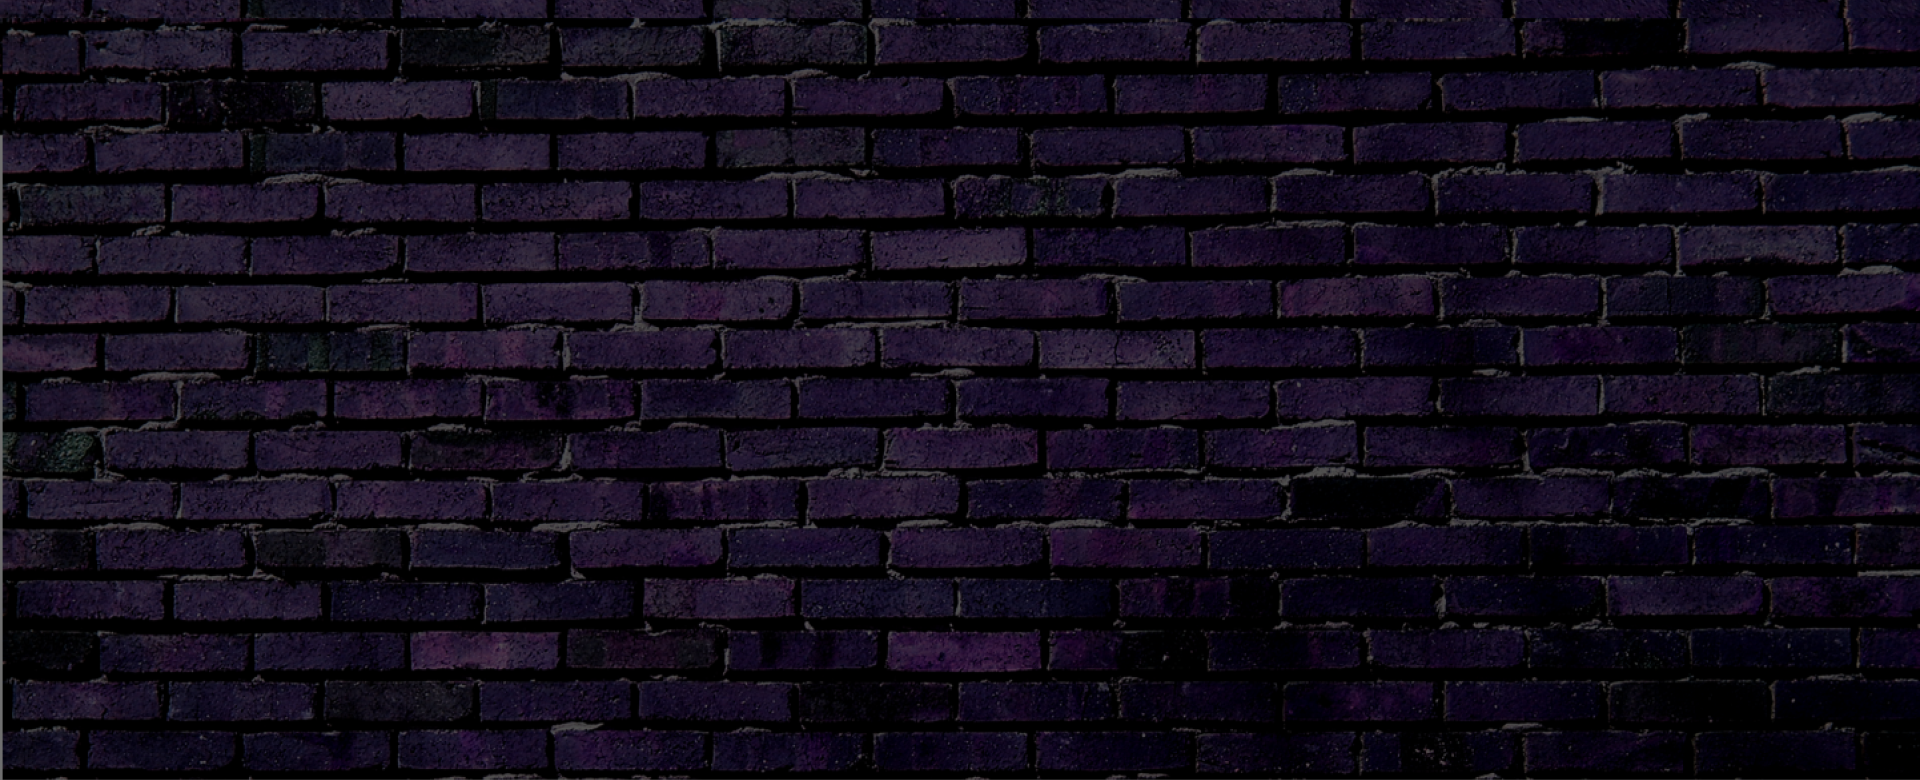
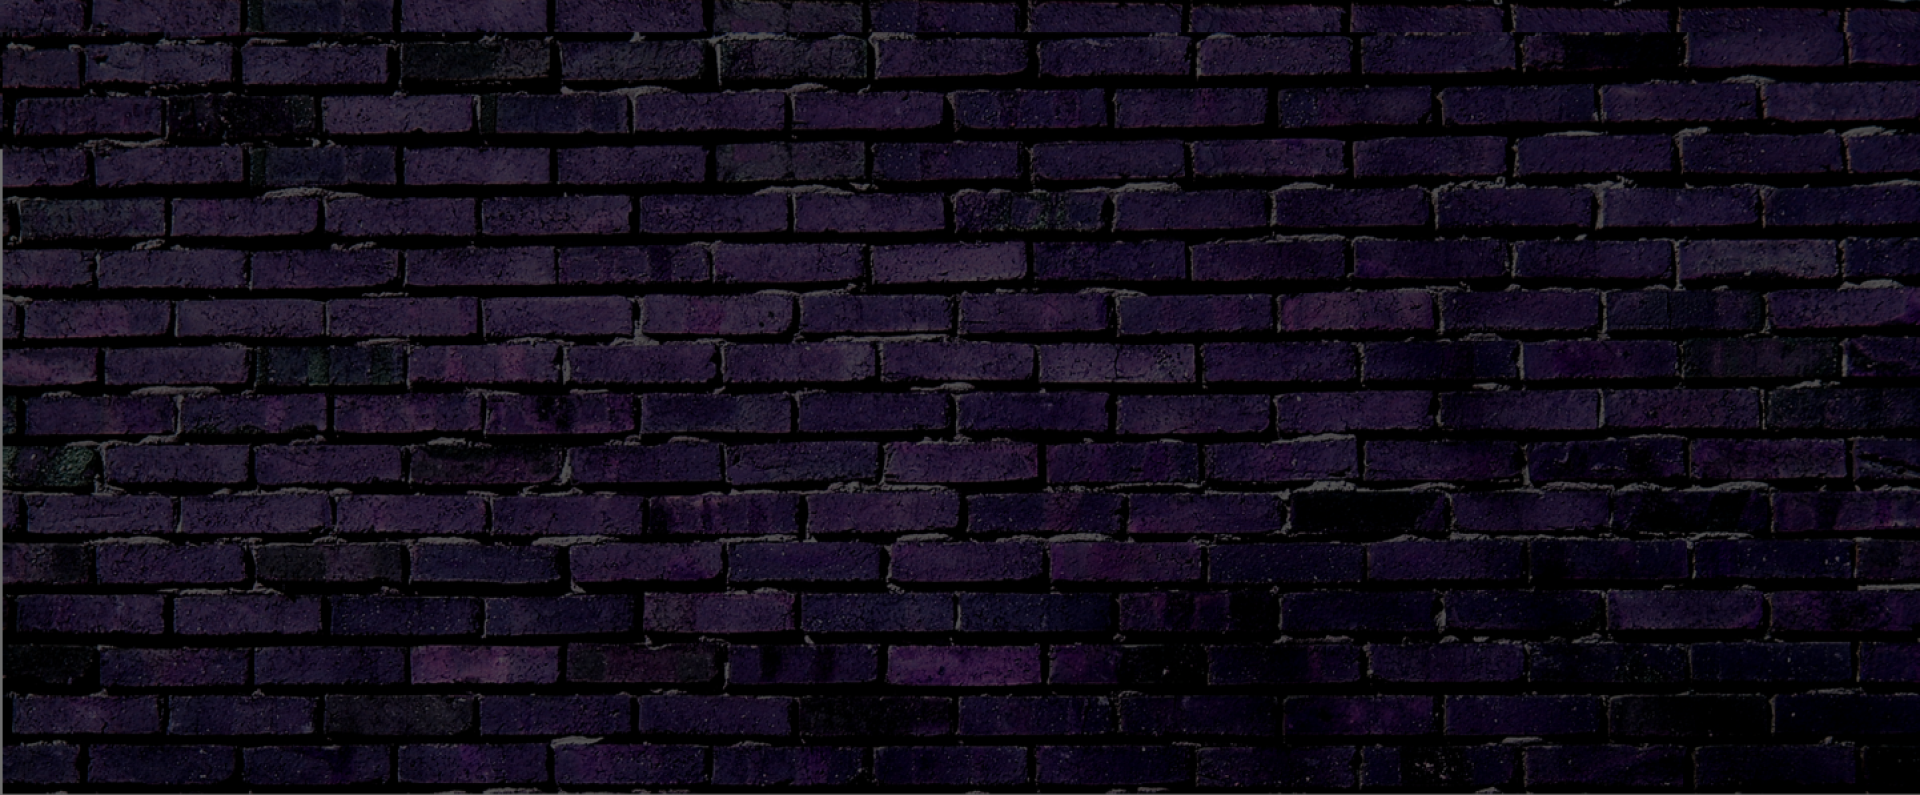
to mobile

diff --git a/getting-started.html b/getting-started.html
@@ -29,10 +29,10 @@
         </div>
 
         <div style="background-image: url('./assets/images/short\ Brick_darker2.png');" class="bg-top">
-            <div class="container-xxl col px-4 py-5">
-                <div class="row flex-lg-row-reverse g-5 pt-5">
+            <div class="container-xxl col px-xl-4 pt-xl-5 pb-5">
+                <div class="row m-0 flex-md-row-reverse g-xl-5 pt-5">
 
-                    <div class="col-lg-6">
+                    <div class="col-md-6 p-0">
                         <div style="background-image: url('./assets/images/ligh\ gold.png');" class="card bg-100 mb-5 border-1 bg-transparent border-0 rounded-0 p-md-4 position-relative">
                             <div class="card-body">
                                 <h5 class="card-title header-sm">Getting started to become an official Urbanite at UrbanCasino is easy! All you need to do is simply complete the few registration steps and you will be well on your way to settle in.</h5>
@@ -41,7 +41,10 @@
                             <!-- <img src="./assets/images/mr crypto pointer.svg" alt="" class="pointer-1 position-absolute"> -->
                         </div>
                         
-                        <div class="d-flex align-items-center pt-5">
+                        <img src="./assets/images/mr crypto lab.svg" class="d-block d-md-none mb-5 img-fluid mx-auto "
+                            alt="Bootstrap Themes" width="620" height="950" loading="lazy">
+
+                        <div class="d-flex align-items-center pt-xl-5">
                             <div class="hr bg-white"></div>
                             <p class="m-0 intro ps-4 ps-md-5">How to begin</p>
                         </div>
@@ -56,9 +59,9 @@
 
                         <p class="mb-3">If you have any queries, struggling with something technical or just need to
                             understand how things operate here, you can contact us 24/7.</p>
-                        <div class="d-flex">
+                        <div class="d-flex flex-column flex-sm-row pt-3">
                             <ul class="list-group list-group-flush">
-                                <li class="align-items-center ps-0 pe-5 d-flex flex-row-reverse justify-content-between list-group-item">
+                                <li class="align-items-center pb-0 ps-0 pe-5 d-flex flex-row-reverse justify-content-between list-group-item">
                                     <div class="ms-2 me-auto p text-white">
                                         
                                         Content for list item
@@ -67,7 +70,7 @@
                                         <img src="./assets/images/kimbo.svg" width="20" alt="">
                                     </span>
                                 </li>
-                                <li class="align-items-center ps-0 pe-5 d-flex flex-row-reverse justify-content-between list-group-item">
+                                <li class="align-items-center pb-0 ps-0 pe-5 d-flex flex-row-reverse justify-content-between list-group-item">
                                     <div class="ms-2 me-auto p text-white">
                                         
                                         Content for list item
@@ -76,7 +79,7 @@
                                         <img src="./assets/images/kimbo.svg" width="20" alt="">
                                     </span>
                                 </li>
-                                <li class="align-items-center ps-0 pe-5 d-flex flex-row-reverse justify-content-between list-group-item">
+                                <li class="align-items-center pb-0 ps-0 pe-5 d-flex flex-row-reverse justify-content-between list-group-item">
                                     <div class="ms-2 me-auto p text-white">
                                         
                                         Content for list item
@@ -85,7 +88,7 @@
                                         <img src="./assets/images/kimbo.svg" width="20" alt="">
                                     </span>
                                 </li>
-                                <li class="align-items-center ps-0 pe-5 d-flex flex-row-reverse justify-content-between list-group-item">
+                                <li class="align-items-center pb-0 ps-0 pe-5 d-flex flex-row-reverse justify-content-between list-group-item">
                                     <div class="ms-2 me-auto p text-white">
                                         
                                         Content for list item
@@ -94,7 +97,7 @@
                                         <img src="./assets/images/kimbo.svg" width="20" alt="">
                                     </span>
                                 </li>
-                                <li class="align-items-center ps-0 pe-5 d-flex flex-row-reverse justify-content-between list-group-item">
+                                <li class="align-items-center pb-0 ps-0 pe-5 d-flex flex-row-reverse justify-content-between list-group-item">
                                     <div class="ms-2 me-auto p text-white">
                                         
                                         Content for list item
@@ -105,7 +108,7 @@
                                 </li>
                             </ul>
                             <ul class="list-group list-group-flush">
-                                <li class="align-items-center ps-0 pe-5 d-flex flex-row-reverse justify-content-between list-group-item">
+                                <li class="align-items-center pb-0 ps-0 pe-5 d-flex flex-row-reverse justify-content-between list-group-item">
                                     <div class="ms-2 me-auto p text-white">
                                         
                                         Content for list item
@@ -114,7 +117,7 @@
                                         <img src="./assets/images/kimbo.svg" width="20" alt="">
                                     </span>
                                 </li>
-                                <li class="align-items-center ps-0 pe-5 d-flex flex-row-reverse justify-content-between list-group-item">
+                                <li class="align-items-center pb-0 ps-0 pe-5 d-flex flex-row-reverse justify-content-between list-group-item">
                                     <div class="ms-2 me-auto p text-white">
                                         
                                         Content for list item
@@ -123,7 +126,7 @@
                                         <img src="./assets/images/kimbo.svg" width="20" alt="">
                                     </span>
                                 </li>
-                                <li class="align-items-center ps-0 pe-5 d-flex flex-row-reverse justify-content-between list-group-item">
+                                <li class="align-items-center pb-0 ps-0 pe-5 d-flex flex-row-reverse justify-content-between list-group-item">
                                     <div class="ms-2 me-auto p text-white">
                                         
                                         Content for list item
@@ -132,7 +135,7 @@
                                         <img src="./assets/images/kimbo.svg" width="20" alt="">
                                     </span>
                                 </li>
-                                <li class="align-items-center ps-0 pe-5 d-flex flex-row-reverse justify-content-between list-group-item">
+                                <li class="align-items-center pb-0 ps-0 pe-5 d-flex flex-row-reverse justify-content-between list-group-item">
                                     <div class="ms-2 me-auto p text-white">
                                         
                                         Content for list item
@@ -141,7 +144,7 @@
                                         <img src="./assets/images/kimbo.svg" width="20" alt="">
                                     </span>
                                 </li>
-                                <li class="align-items-center ps-0 pe-5 d-flex flex-row-reverse justify-content-between list-group-item">
+                                <li class="align-items-center pb-0 ps-0 pe-5 d-flex flex-row-reverse justify-content-between list-group-item">
                                     <div class="ms-2 me-auto p text-white">
                                         
                                         Content for list item
@@ -151,12 +154,13 @@
                                     </span>
                                 </li>
                             </ul>
+
                         </div>
 
                     </div>
 
-                    <div class="col-10 col-sm-8 col-lg-6">
-                        <img src="./assets/images/mr crypto lab.svg" class="d-block img-fluid mx-lg-auto "
+                    <div class="col-sm-8 col-md-6 p-0 d-none d-md-block">
+                        <img src="./assets/images/mr crypto lab.svg" class="d-block img-fluid mx-auto "
                             alt="Bootstrap Themes" width="620" height="950" loading="lazy">
                     </div>
                 </div>
@@ -181,9 +185,9 @@
         <div class="py-xl-5"
             style="background: url('./assets/images/featured\ links\ bg.png') no-repeat center/cover; margin-top: -21px;">
             <div class="container-xxl px-xl-5 py-xl-5" id="icon-grid">
-                <div class="row px-xl-5 mx-xl-5 text-center row-cols-1 row-cols-sm-2 g-1 py-5">
-                    <div class="col  d-flex align-items-start p-2">
-                        <div class="bg-xl-100 bg-cover p-2 p-sm-3 p-xl-5 bg-pbox" style="background-image: url('./assets/images/brown-bg.png');">
+                <div class="row px-xl-5 mx-xl-5 text-center row-cols-1 row-cols-sm-2 g-sm-1 py-5">
+                    <div class="col mb-3 d-flex align-items-start">
+                        <div class="bg-xl-100 bg-image p-4 p-sm-5 bg-pbox" style="background-image: url('./assets/images/brown-bg.png');">
                             <h2 class="text-black text-uppercase">
                                 Step 2
                             </h2>
@@ -195,8 +199,8 @@
                                 Urbanite.</p>
                         </div>
                     </div>
-                    <div class="col  d-flex align-items-start p-2">
-                        <div class="bg-xl-100 bg-cover p-2 p-sm-3 p-xl-5 bg-pbox" style="background-image: url('./assets/images/brown\ bg.png');">
+                    <div class="col mb-3 d-flex align-items-start">
+                        <div class="bg-xl-100 bg-image p-4 p-sm-5 bg-pbox" style="background-image: url('./assets/images/brown\ bg.png');">
                             <h2 class="text-black text-uppercase">
                                 Step 3
                             </h2>
@@ -208,8 +212,8 @@
                                 Urbanite.</p>
                         </div>
                     </div>
-                    <div class="col  d-flex align-items-start p-2">
-                        <div class="bg-xl-100 bg-cover p-2 p-sm-3 p-xl-5 bg-pbox" style="background-image: url('./assets/images/brown\ bg.png');">
+                    <div class="col mb-3 d-flex align-items-start">
+                        <div class="bg-xl-100 bg-image p-4 p-sm-5 bg-pbox" style="background-image: url('./assets/images/brown\ bg.png');">
                             <h2 class="text-black text-uppercase">
                                 Step 3
                             </h2>
@@ -221,9 +225,8 @@
                                 Urbanite.</p>
                         </div>
                     </div>
-
-                    <div class="col  d-flex align-items-start p-2">
-                        <div class="bg-xl-100 bg-cover p-2 p-sm-3 p-xl-5 bg-pbox" style="background-image: url('./assets/images/brown-bg.png');">
+                    <div class="col mb-3 d-flex align-items-start">
+                        <div class="bg-xl-100 bg-image p-4 p-sm-5 bg-pbox" style="background-image: url('./assets/images/brown-bg.png');">
                             <h2 class="text-black text-uppercase">
                                 Step 5
                             </h2>

diff --git a/assets/css/index.css b/assets/css/index.css
@@ -413,7 +413,7 @@ thead>tr {
 
 .bg-top {
     background-position: top center;
-    background-size: auto;
+    background-size: 101% 73%;
     background-repeat: no-repeat;
 }
 
